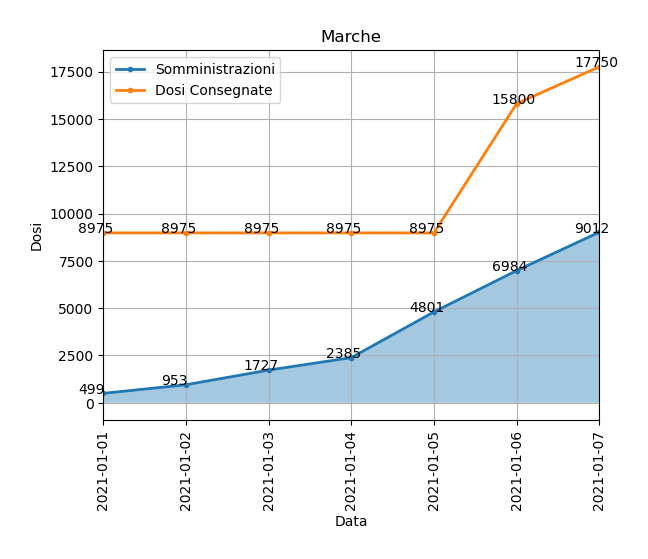
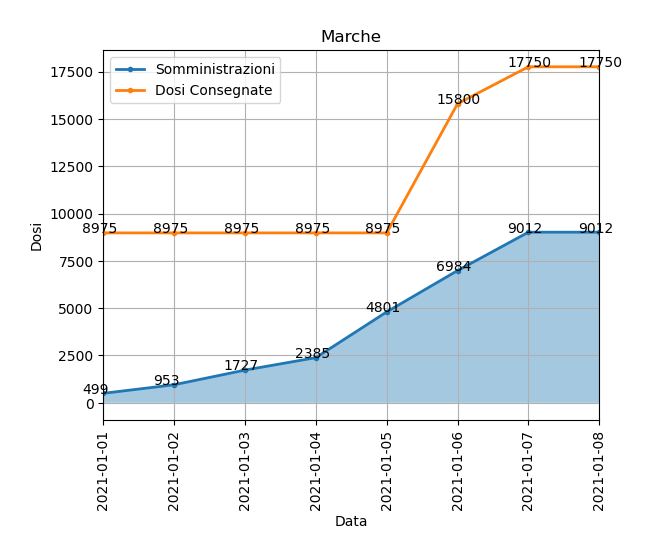
first update 08 January

diff --git a/plot_regions.py b/plot_regions.py
@@ -33,7 +33,7 @@ def plotRegions(path, dest_path):
         for i, txt in enumerate(df['Dosi Consegnate']):
             plt.text(i - 0.3, txt, txt)
 
-        plt.fill_between(np.arange(len(df['Data'])), df['Somministrazioni'], alpha=0.4)
+        plt.fill_between(np.arange(len(df['Data (YYYY-MM-DD)'])), df['Somministrazioni'], alpha=0.4)
 
         plt.savefig(fname=dest_path + filename + '.png',pad_inches = 0.3,bbox_inches= 'tight')
         #plt.show()
